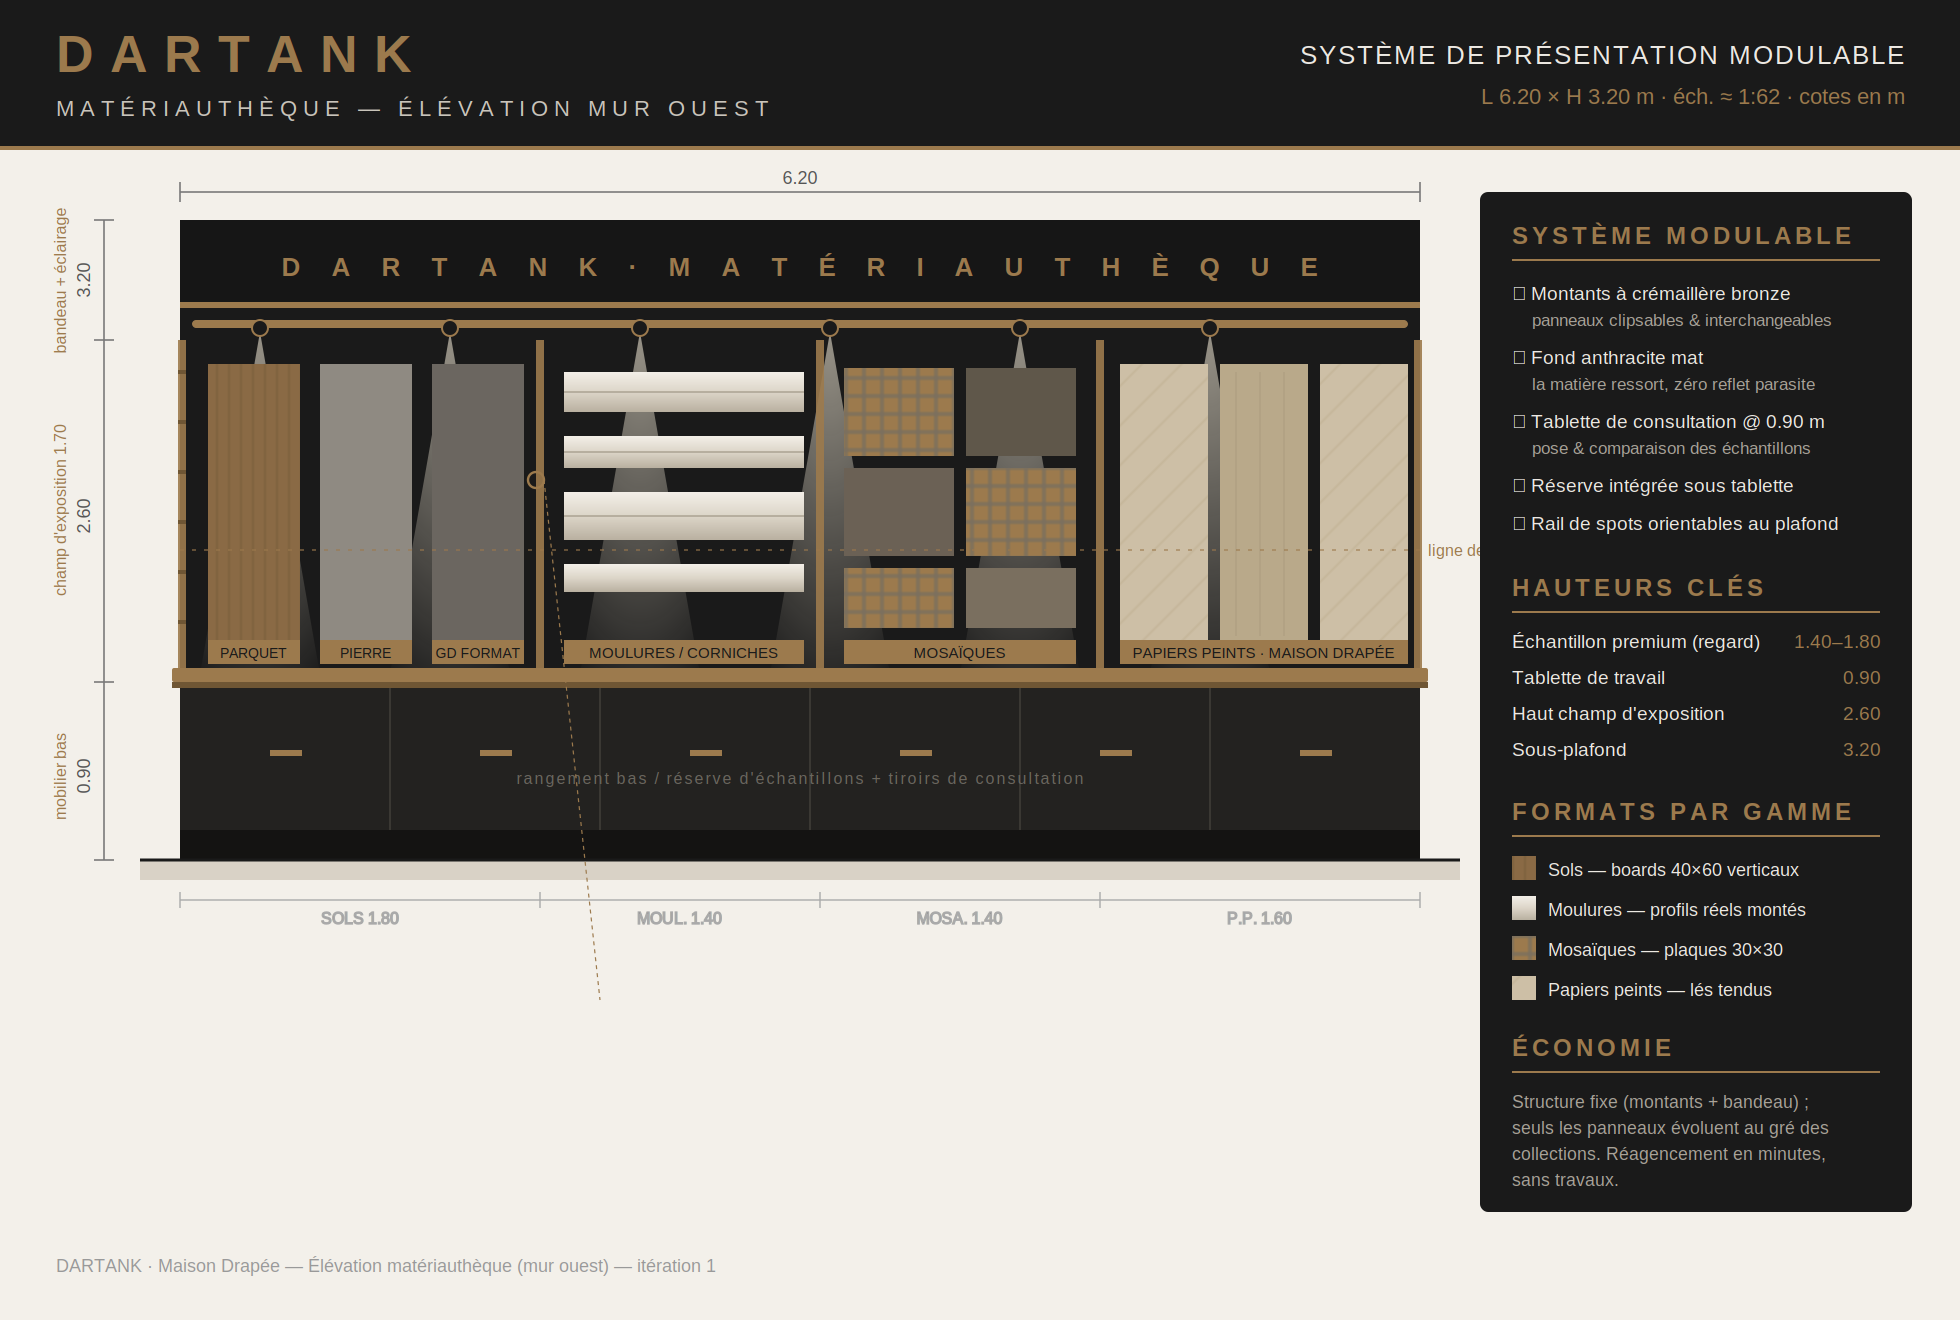
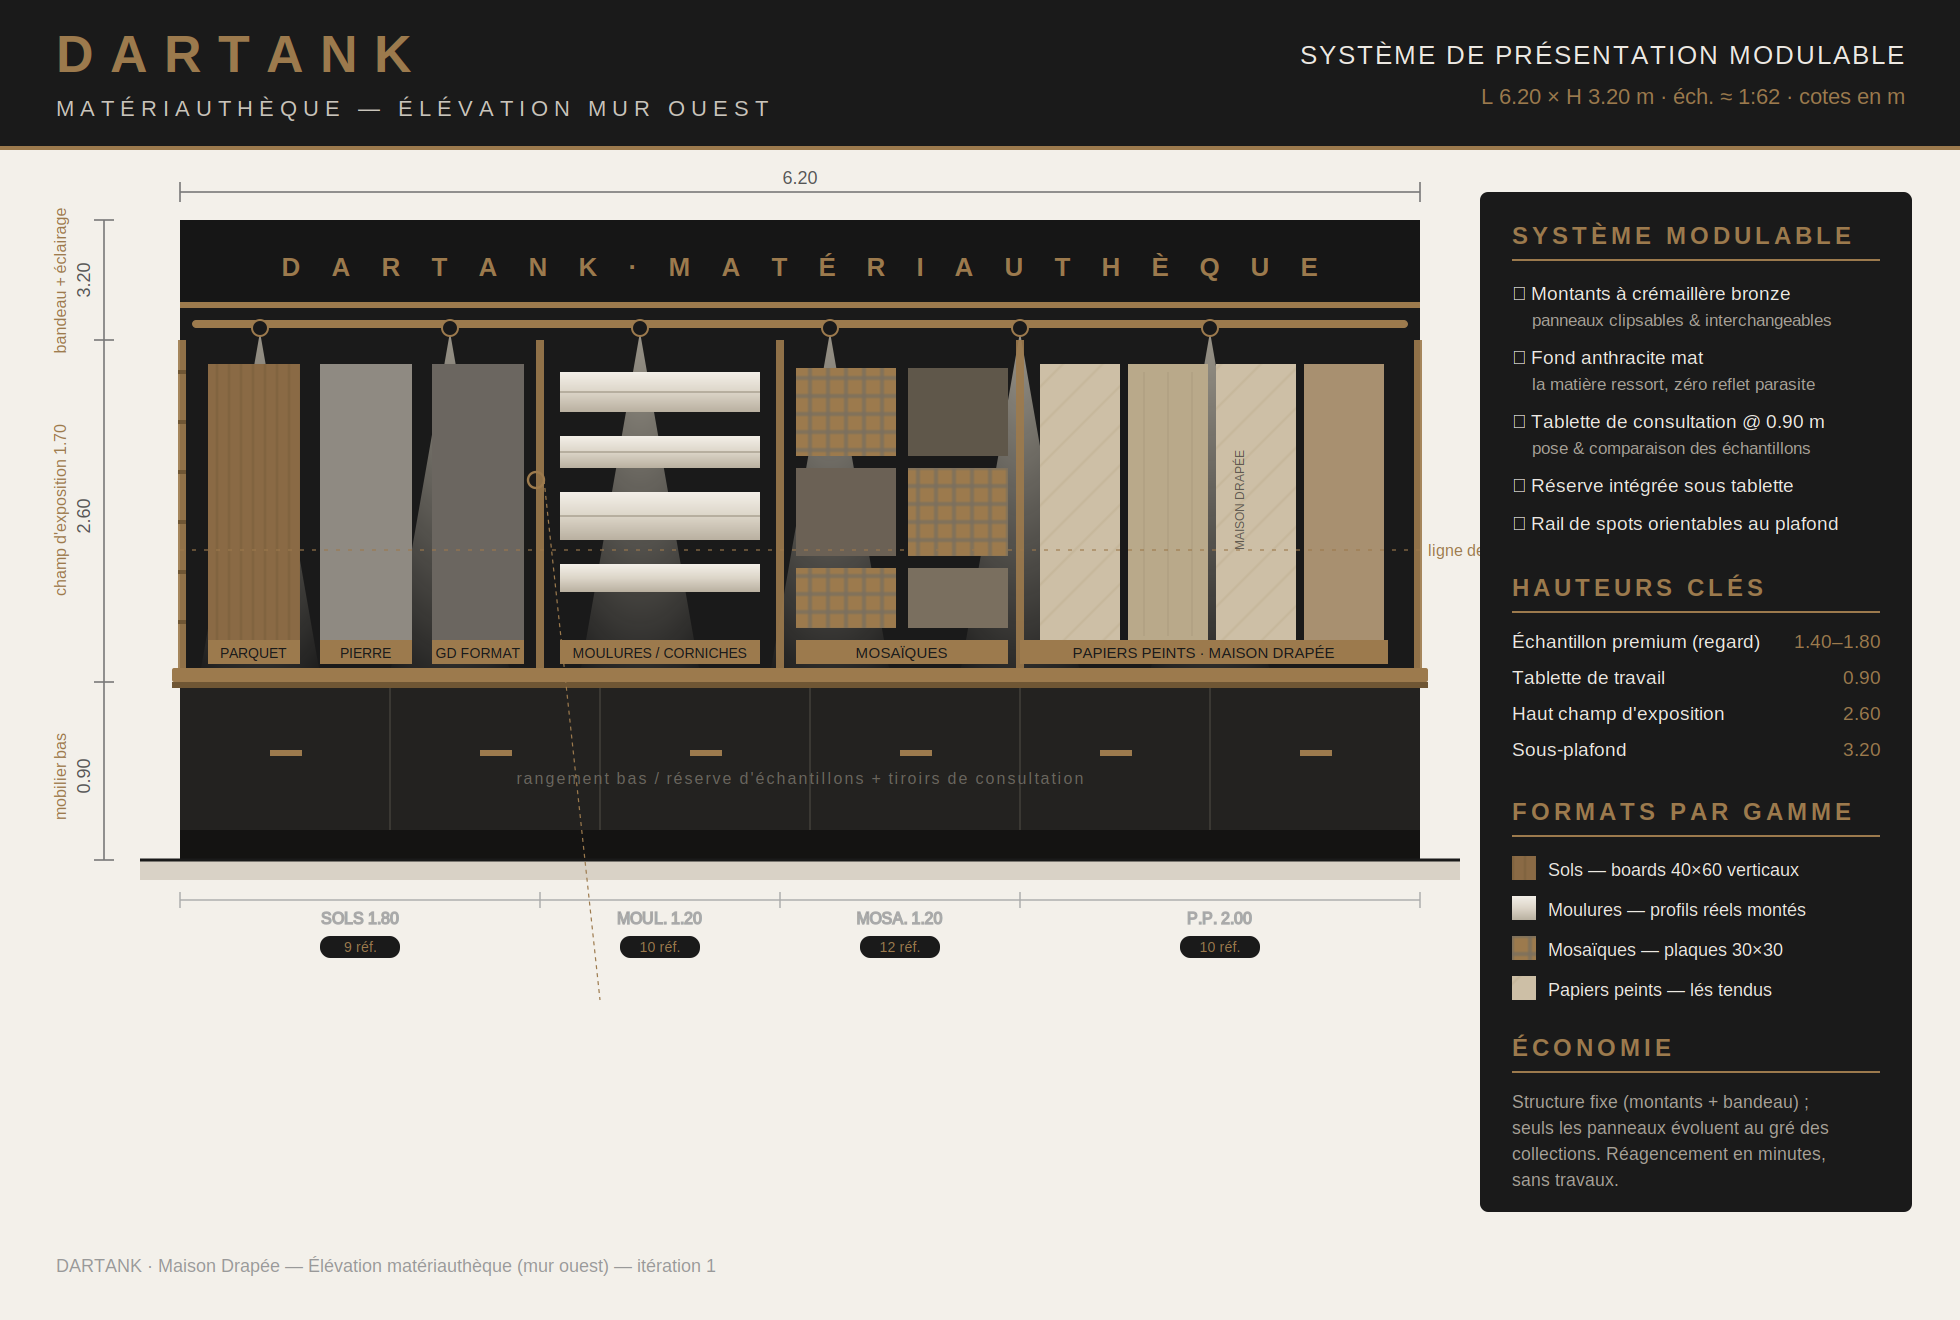
Refine matériauthèque: rebalanced ranges, sample formats, rail detail + east wall ambiances
Claude-Session: https://claude.ai/code/session_01WsdrNM8rjHPYoQLzKJZo3y

diff --git a/showroom-dartank/README.md b/showroom-dartank/README.md
@@ -56,9 +56,24 @@ prescription** → passage au **comptoir** en fond. Boucle naturelle, sans cul-d
 |---|---|---|---|
 | 0 | Vue d'ensemble — plan 2D + parcours + palette | `01-plan-amenagement.svg` | ✅ |
 | 1 | Élévation matériauthèque (système d'échantillons) | `02-elevation-materiautheque.svg` | ✅ |
+| 1bis | Détail montant à crémaillère + formats / références | `03-detail-montant-formats.svg` | ✅ |
+| 1ter | Élévation mur est — 3 ambiances scénarisées | `04-mur-est-ambiances.svg` | ✅ |
 | 2 | Concept d'éclairage | à venir | ⏳ |
 | 3 | Planche matériaux & finitions (mood board) | à venir | ⏳ |
 | 4 | Signalétique + logo DARTANK | à venir | ⏳ |
 | 5 | Vue perspective (option) | à venir | ⏳ |
+
+### Matériauthèque — proportions retenues (linéaire 6,20 m)
+
+| Gamme | Linéaire | Format échantillon | Support | Réf. |
+|---|---|---|---|---|
+| Sols | 1,80 m | board 40×60 cm | board clipsé | 9 |
+| Moulures / corniches | 1,20 m | profil réel L.50 cm | bras profilé | 10 |
+| Mosaïques | 1,20 m | plaque 30×30 cm | plaque aimantée | 12 |
+| Papiers peints + Maison Drapée | 2,00 m | lé 50×140 cm | barre + lest | 10 |
+
+Montant à crémaillère bronze, pas de 32 mm, saillie totale ≈ 70 mm, panneaux
+interchangeables ép. 19 mm. Étiquetage : plaquette bronze gravée (réf. + collection)
++ QR vers fiche technique digitale.
 
 > Les SVG sont exportés en PNG dans `exports/` (via `cairosvg`).
